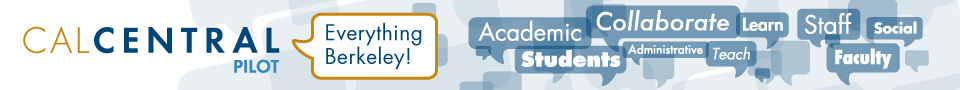
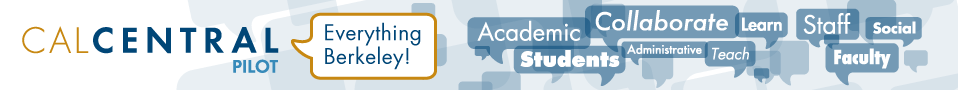
CLC-308 - CalCentral Splash page missing border on header https://jira.media.berkeley.edu/jira/browse/CLC-308

diff --git a/src/main/webapp/css/style.css b/src/main/webapp/css/style.css
@@ -238,6 +238,9 @@ a:hover, a:focus {
 
 body > header {
 	background: url("/img/myb/cc_branding_strip.png");
+	border: 1px solid #d3d8d8;
+	border-bottom: none;
+	border-top: none;
 	cursor: pointer;
 	margin: 0 auto;
 	height: 42px;
